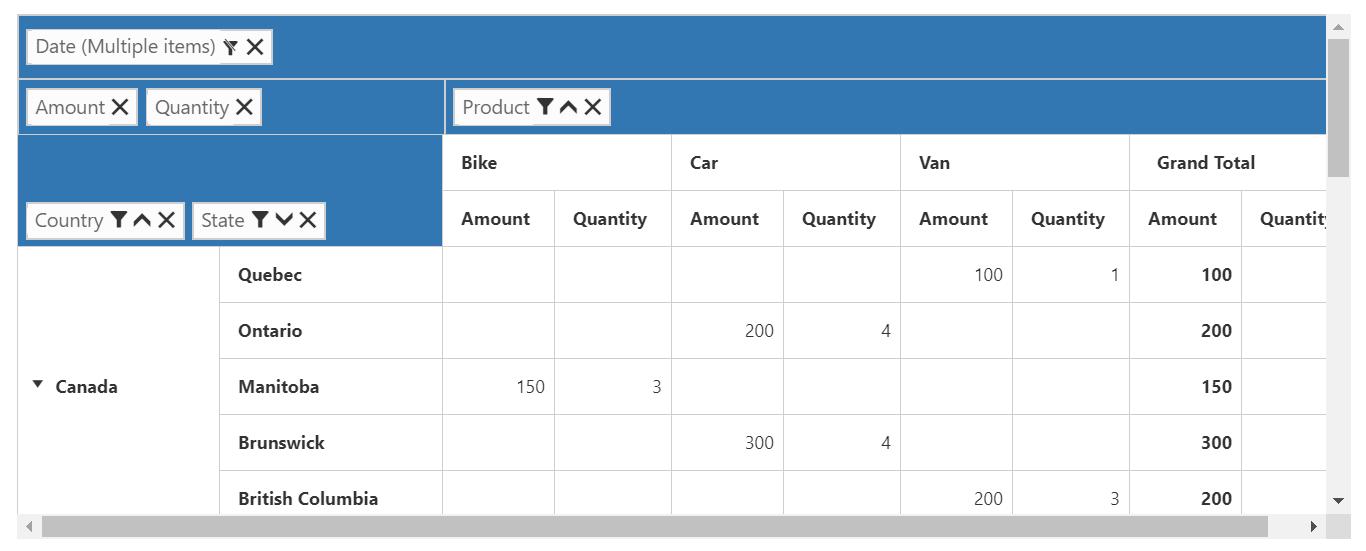
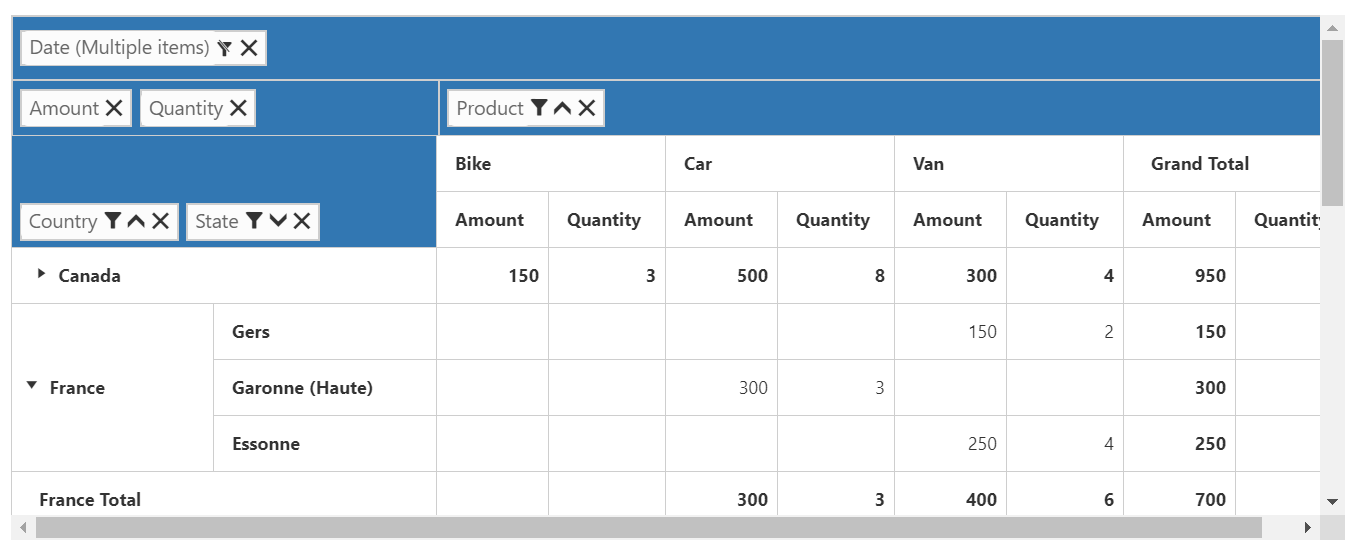
documentation(CR-issue): State-Persistence

diff --git a/js/PivotGrid/State-Persistence.md b/js/PivotGrid/State-Persistence.md
@@ -30,11 +30,11 @@ Expand and collapse state of row and column headers are maintained during every 
 * Hyperlink
 * Advanced Filtering
 
-The following screenshot displays all members in expanded state.
+PivotGrid with collapsed "Canada".
 
 {% include image.html url="/js/PivotGrid/Getting-Started_images/expandall.png" %}
 
 
-The following screenshot displays the state persistence after removed "date" field from filter axis, sort "product" field from column axis and drag & dropped "state" field from row axis to column axis.
+PivotGrid maintaining collapsed state of "Canada" after Schema change
 
 {% include image.html url="/js/PivotGrid/Getting-Started_images/expandall_img1.png" %}
